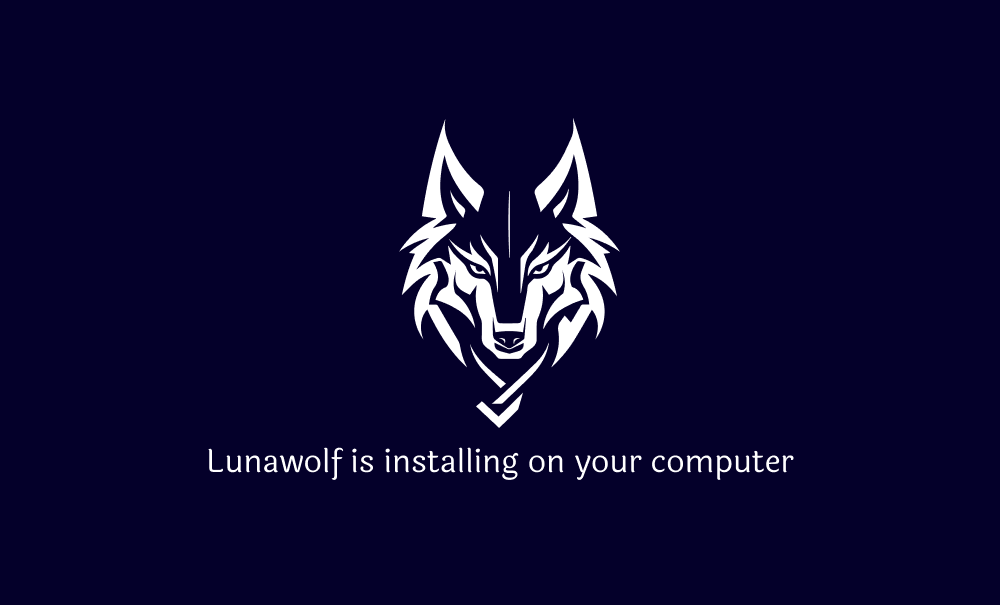
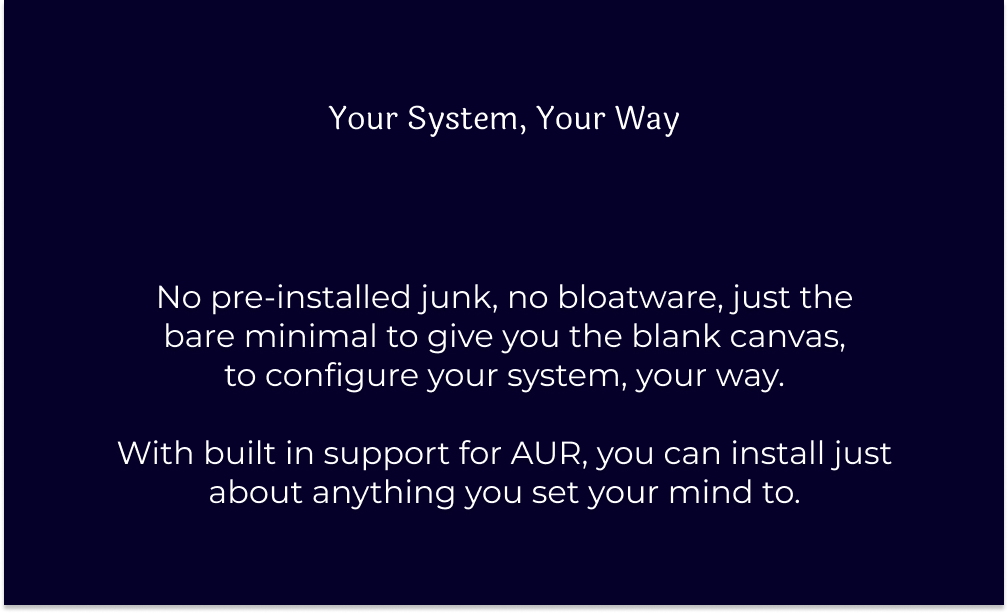
Update Calamares Config

Changed region(s): [[0.124, 0.1785, 0.899, 0.8331], [0.0, 0.0, 1.0, 1.0]]

diff --git a/calamares-config-lunawolf/files/calamares/branding/lunawolf/show.qml b/calamares-config-lunawolf/files/calamares/branding/lunawolf/show.qml
@@ -68,6 +68,16 @@ Presentation
         }
     }
     
+    Slide {
+        anchors.fill: parent
+
+        Image {
+            id: background5
+            source: "slides/5.png"
+            anchors.fill: parent
+        }
+    }
+    
     function onActivate() {
         console.log("QML Component (default slideshow) activated");
         presentation.currentSlide = 0;
